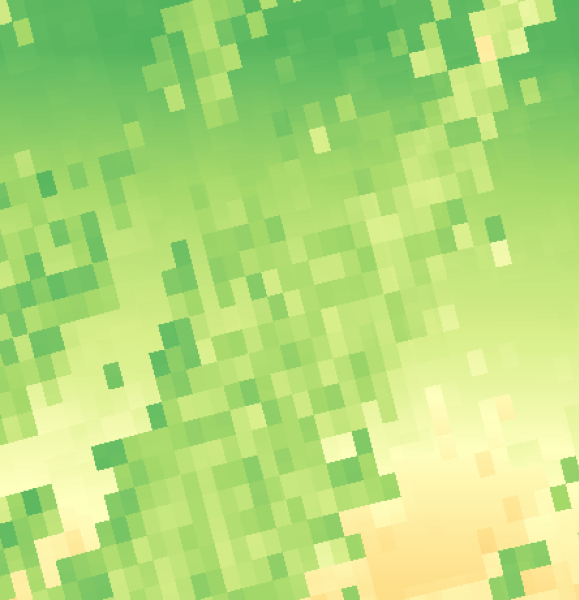
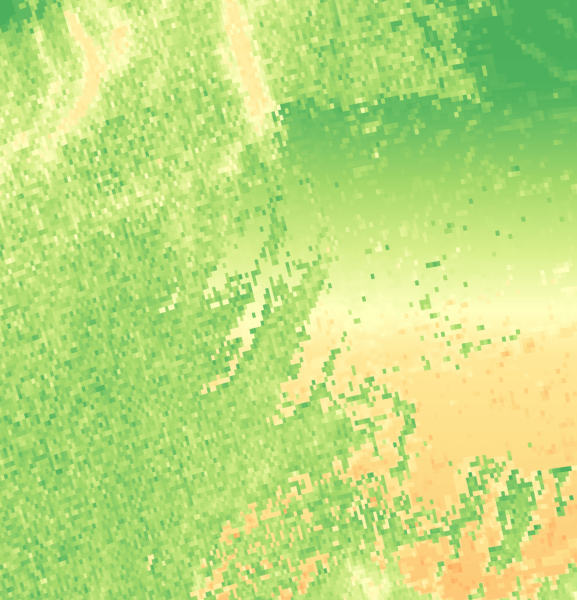
final

diff --git a/takeair-website/components/Map.tsx b/takeair-website/components/Map.tsx
@@ -20,17 +20,17 @@ import { IoIosWater, IoMdCloudOutline } from "react-icons/io";
 const baseUrl = "https://{s}.tile.openstreetmap.org/{z}/{x}/{y}.png";
 
 const overlays: Record<"map1" | "map2" | "map3" | "map4" | "map5" | "map6", string | null> = {
-  map1: "/heatmaps/clouds.png",
+  map1: "/heatmaps/foryou.png",
   map2: "/heatmaps/temperature.png",
   map3: "/heatmaps/airquality.png",
-  map4: "/heatmaps/ndvi.png",
+  map4: "/heatmaps/uv.png",
   map5: "/heatmaps/clouds.png",
   map6: "/heatmaps/ndvi.png",
 };
 
 const imageBounds: [[number, number], [number, number]] = [
-  [47.9246029, 6.8386557],
-  [49.1145504, 8.6352863],
+  [45.46055743458582, 3.245394579402393],
+  [51.41100662886027, 12.228547420597607],
 ];
 
 function SearchLayer({
@@ -104,7 +104,7 @@ export default function Map() {
       <div className="absolute inset-0 z-0">
         <MapContainer
           center={[48.523071, 7.736971]}
-          zoom={10}
+          zoom={8}
           className={`h-full w-full ${isFilterWindowOpen ? "pointer-events-none" : ""
             }`}
           attributionControl={false}
@@ -115,7 +115,7 @@ export default function Map() {
             <ImageOverlay
               url={overlays[mapFilter]!}
               bounds={imageBounds}
-              opacity={0.6}
+              opacity={0.4}
             />
           )}
 
@@ -151,7 +151,16 @@ export default function Map() {
           </button>
         </div>
 
-        <p className="text-sm bg-gray-1 px-1 rounded text-gray-3">
+        <div className="flex items-center gap-2 mt-2 p-2 bg-gray-1 rounded">
+          <span className="text-xs text-darkblue">Low</span>
+          <div
+            className="w-32 h-4 rounded-full"
+            style={{ background: "linear-gradient(to right, green, red)" }}
+          ></div>
+          <span className="text-xs text-darkblue">High</span>
+        </div>
+
+        <p className="text-sm bg-gray-1 px-1 rounded text-darkblue">
           Data gathered from Copernicus
         </p>
       </form>

diff --git a/takeair-website/app/(root)/page.tsx b/takeair-website/app/(root)/page.tsx
@@ -210,7 +210,7 @@ export default function Home() {
               </button>
             </div>
 
-            <div className="space-y-4 text-xs text-gray-3 mt-4 max-h-[75vh] overflow-y-auto">
+            <div className="space-y-4 text-sm text-gray-3 mt-4 max-h-[75vh] overflow-y-auto">
               <p>
                 This app (“App”) provides only information for educational purposes. This App is not medical or treatment advice, professional diagnosis, opinion, or services – and may not be treated as such by the user. As such, this App may not be relied upon for the purposes of medical diagnosis or as a recommendation for medical care or treatment. The information provided by this App is not a substitute for professional medical advice, diagnosis or treatment. All content, including text, graphics, images and information, contained on or available through this App is for general information purposes only.
               </p>

diff --git a/takeair-website/app/layout.tsx b/takeair-website/app/layout.tsx
@@ -27,8 +27,11 @@ export default function RootLayout({
       <body
         className={`${geistSans.variable} ${geistMono.variable} antialiased`}
       >
+        <div className="w-screen h-screen bg-darkblue">
+
         <div className="max-w-[600px] mx-auto h-screen">
         {children}
+        </div>
         </div>
       </body>
     </html>
